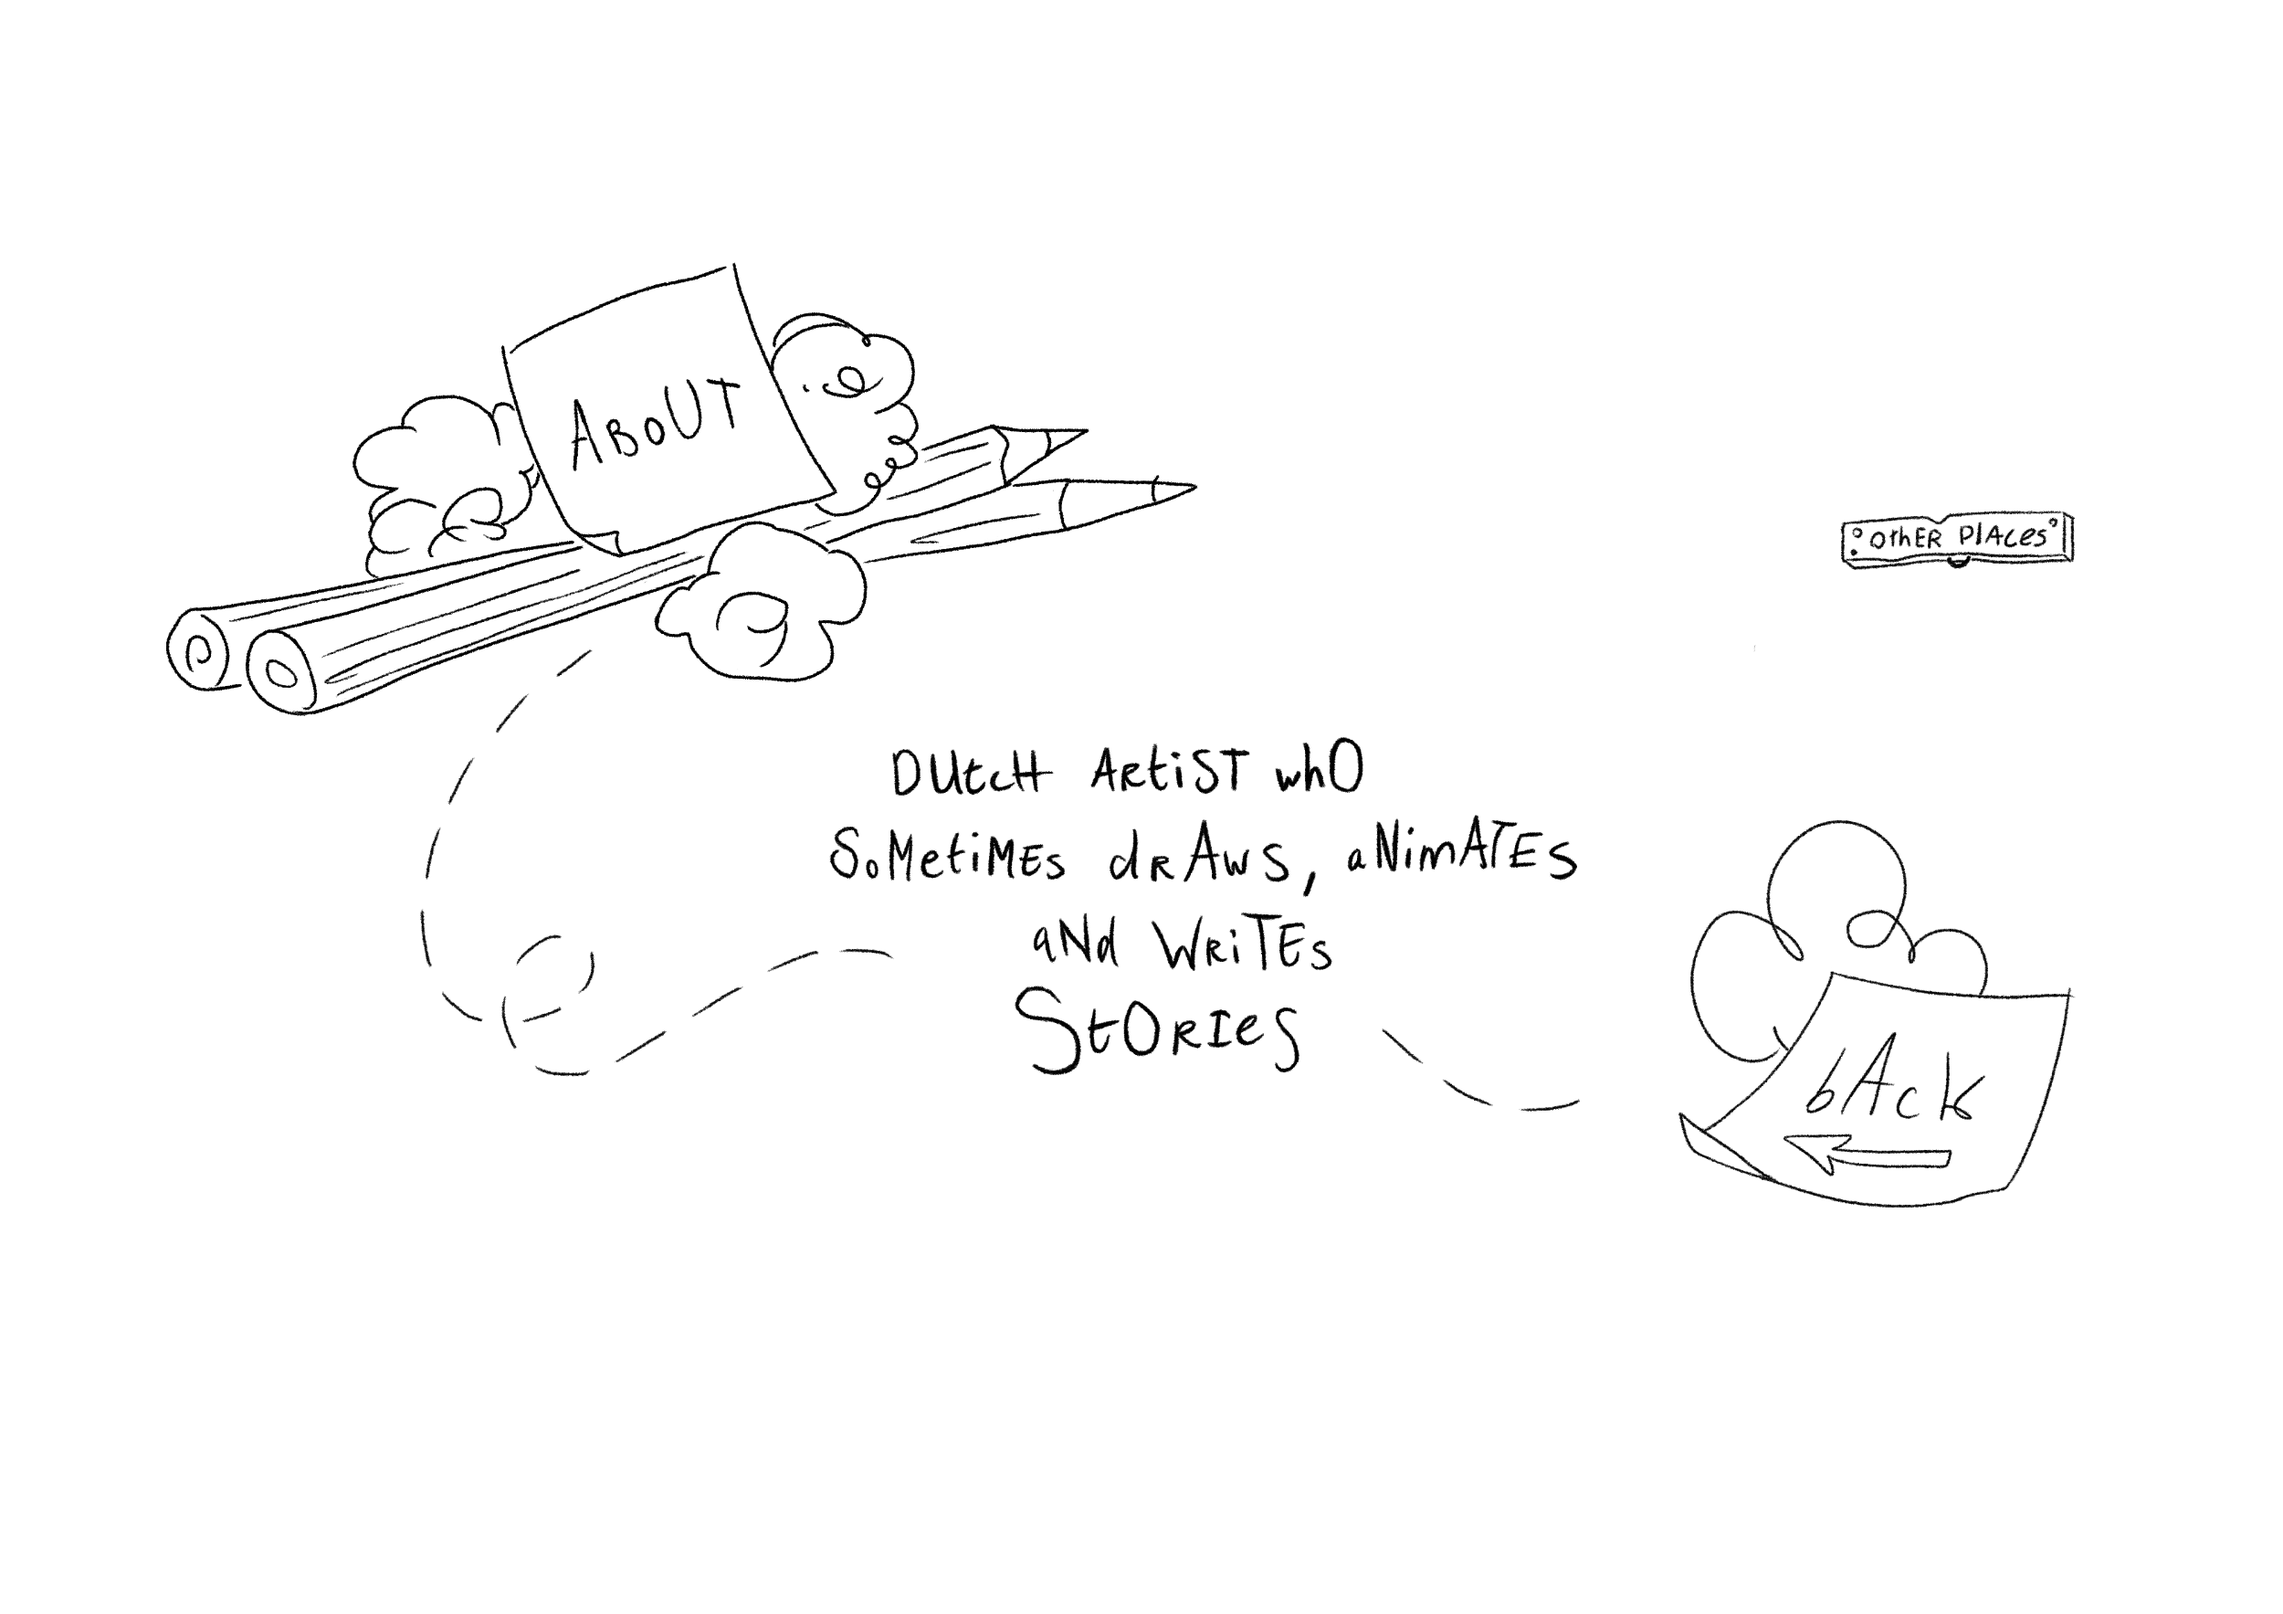
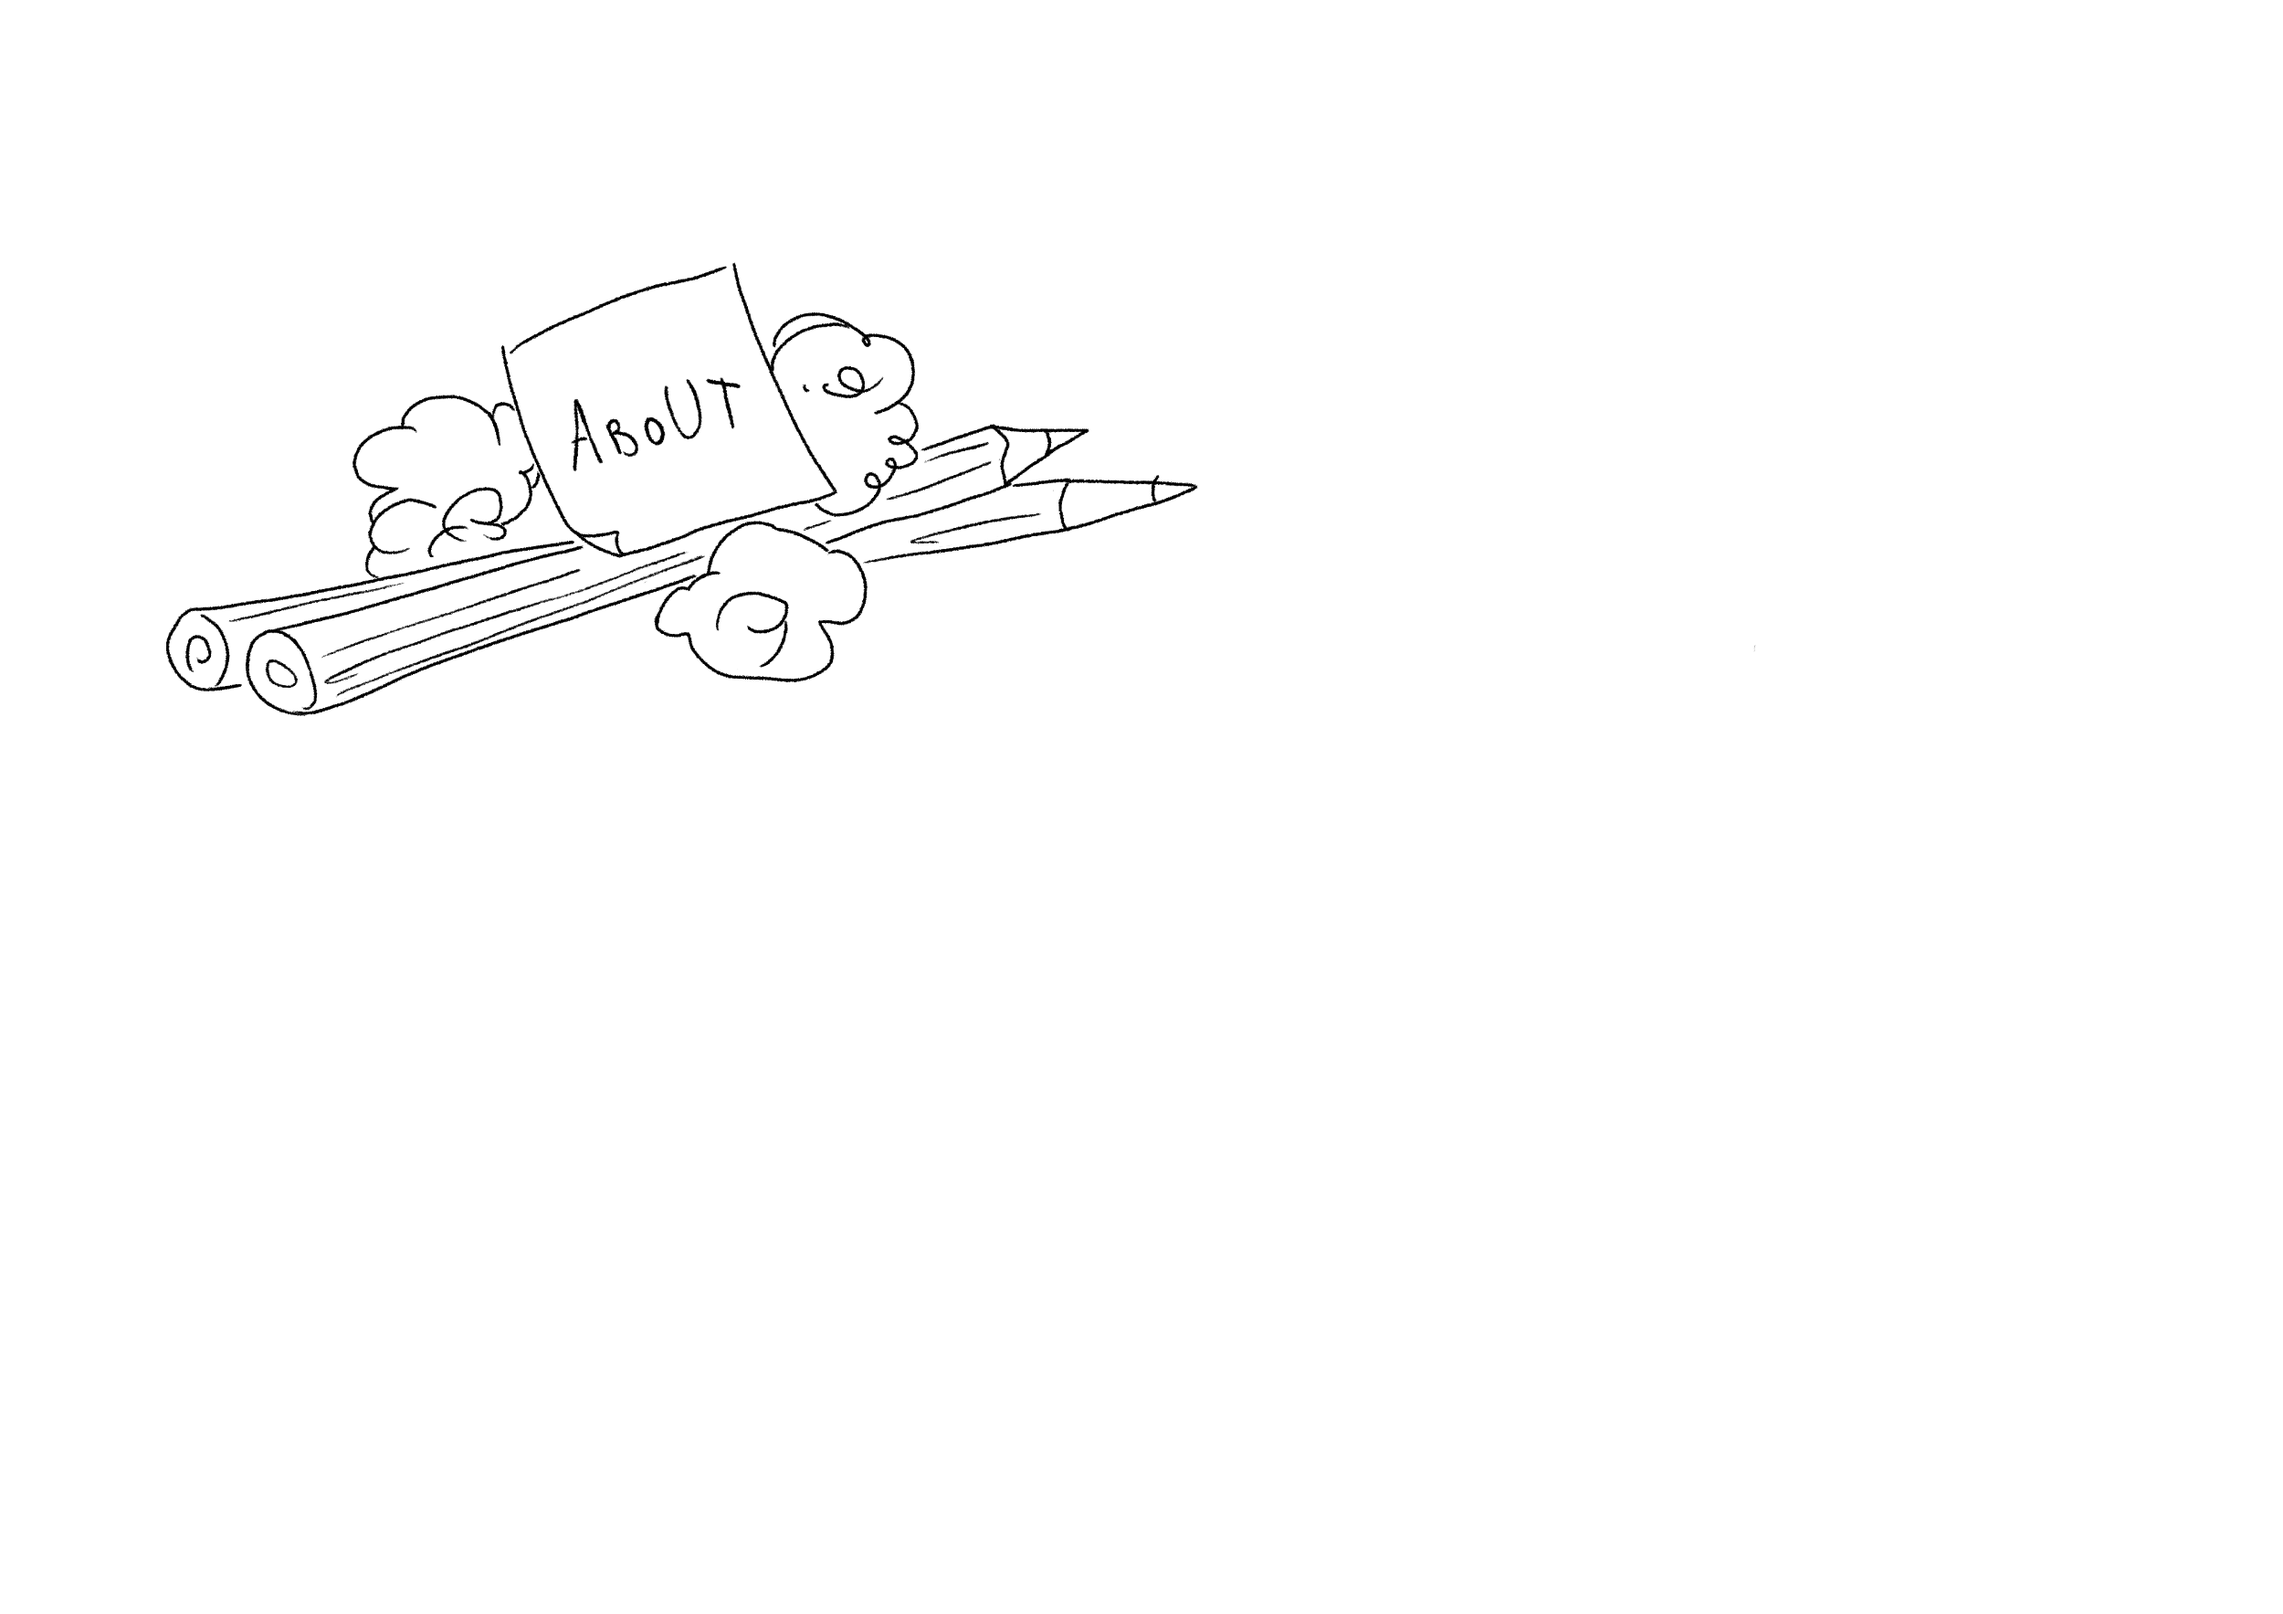
Navigation - position -fixed

diff --git a/index.html b/index.html
@@ -4,7 +4,6 @@
 
     <title>Artsgeek</title>
     <link rel="stylesheet" href="styles.css">
-    <link href="https://fonts.googleapis.com/css2?family=Poppins:ital,wght@1,300&display=swap" rel="stylesheet">
 
 </head>
 
@@ -29,6 +28,7 @@
 
         <p class="p-index">Lieske Keegtra is a Dutch animator and illustrator living in Ireland.</p>
 
+    
         <!-- Nav links -->
         <!-- Nav About-->
 
@@ -74,24 +74,34 @@
             <img src= "images/index/cross-button.PNG" alt= "cross" class="cross-box">
         </a>
 
-        <!-- Nav Instagram -->
+        <nav>
 
-        <a href="https://www.instagram.com/artsgeeky/" class="instagram-link" target="blank">
-            <img src= "images/general/instagram.PNG" alt="instagram" class="instagram">
-        </a>
-
-        <!-- Nav Email -->
-
-        <a href="mailto: artsgeeky@gmail.com" class="email-link" target="blank">
-            <img src= "images/general/email.PNG" alt="email" class="email">
-        </a>
-
-        <!-- Other Places Stripes -->
-
+            <!-- Nav links -->
+            <!-- Nav Back -->
     
-        <img src="images/general/line1.PNG" alt="line" class="line1">
+            <!-- Nav Header -->
+    
+            <img src= "images/general/otherplaces.PNG" alt="other places" class="otherplaces">
+    
+            <!-- Nav Instagram -->
+    
+            <a href="https://www.instagram.com/artsgeeky/" class="instagram-link" target="blank">
+                <img src= "images/general/instagram.PNG" alt="instagram" class="instagram">
+            </a>
+    
+            <!-- Nav Email -->
+    
+            <a href="mailto: artsgeeky@gmail.com" class="email-link" target="blank">
+                <img src= "images/general/email.PNG" alt="email" class="email">
+            </a>
+    
+            <!-- Other Places Stripes -->
         
-        <img src="images/general/line2.PNG" alt="line" class="line2">
+            <img src="images/general/line1.PNG" alt="line" class="line1">
+            
+            <img src="images/general/line2.PNG" alt="line" class="line2">
+    
+        </nav>
 
 
         <!-- Footer -->

diff --git a/cross.html b/cross.html
@@ -22,34 +22,30 @@
 
         <!-- Background -->
 
-        <img src= "images/general/background_image.PNG" alt= "love" class="foreground"> 
+        <img src= "images/general/background_image.PNG" alt= "love"> 
 
         <!-- Cross Drawing -->
 
         <img src= "https://cdnb.artstation.com/p/assets/images/images/044/127/321/large/lieske-keegstra-christmas.jpg?1639153742" alt= "love" class="cross-drawing">
         
+        <nav>
+
         <!-- Nav links -->
         <!-- Nav Back -->
 
-        <a href="index.html" class="back-cross-link">
-            <img src= "images/general/back_button.PNG" alt= "back" class="back-cross-box">
-        </a>
+        <!-- Nav Header -->
+
+        <img src= "images/general/otherplaces.PNG" alt="other places" class="otherplaces">
 
         <!-- Nav Instagram -->
 
-        <img src= "images/general/instagram.PNG" alt="instagram" class="instagram-link">
-
-
-        <a href="https://www.instagram.com/artsgeeky/" class="instagram-link-overlay" target="blank">
+        <a href="https://www.instagram.com/artsgeeky/" class="instagram-link" target="blank">
             <img src= "images/general/instagram.PNG" alt="instagram" class="instagram">
         </a>
 
         <!-- Nav Email -->
 
-        <img src= "images/general/email.PNG" alt="email" class="email-link">
-
-
-        <a href="mailto: artsgeeky@gmail.com" class="email-link-overlay" target="blank">
+        <a href="mailto: artsgeeky@gmail.com" class="email-link" target="blank">
             <img src= "images/general/email.PNG" alt="email" class="email">
         </a>
 
@@ -58,6 +54,12 @@
         <img src="images/general/line1.PNG" alt="line" class="line1">
         
         <img src="images/general/line2.PNG" alt="line" class="line2">
+
+        </nav>
+
+        <a href="index.html" class="back-cross-link">
+            <img src= "images/general/back_button.PNG" alt= "back" class="back-cross-box">
+        </a>
 
         <!-- Footer -->
 

diff --git a/about.html b/about.html
@@ -17,20 +17,29 @@
 
 
     </section>
-    
-    
+
     <section>
 
-        <!-- Background -->
+        
+            <!-- Background -->
+    
+            <img src= "images/about/background-about.PNG" alt= "about"> 
+    
+        
 
-        <img src= "images/about/background-about.PNG" alt= "about"> 
+    <nav>
 
         <!-- Nav links -->
         <!-- Nav Back -->
 
-        <a href="index.html" class="back-about-link">
+
+        <!--<a href="index.html" class="back-about-link">
             <img src= "images/about/back_button.PNG" alt= "back" class="back-about-box">
-        </a>
+        </a>-->
+
+        <!-- Nav Header -->
+
+        <img src= "images/general/otherplaces.PNG" alt="other places" class="otherplaces">
 
         <!-- Nav Instagram -->
 
@@ -66,22 +75,24 @@
 
         <img src="images/general/line4.PNG" alt="line" class="line4">
 
+    </nav>
 
-        <!-- Footer -->
-
-        <div class="footer-position">
-
-            <img src="images/general/artsgeek.PNG" alt="artsgeek" class="artsgeek-footer">
-  
-            <img src="images/general/illustrations.PNG" alt="illustrations" class="illustrations-footer">
-  
-            <img src="images/general/and.PNG" alt="and" class="and-footer">
-  
-            <img src="images/general/animation.PNG" alt="animation" class="animation-footer">
-   
-          </div>
-          
+     <!-- Footer -->
+    <footer>
+       
+           <img src="images/general/artsgeek.PNG" alt="artsgeek" class="artsgeek-footer">
+       
+           <img src="images/general/illustrations.PNG" alt="illustrations" class="illustrations-footer">
+       
+           <img src="images/general/and.PNG" alt="and" class="and-footer">
+       
+           <img src="images/general/animation.PNG" alt="animation" class="animation-footer">
+       
+       </footer>
+ 
+    
     </section>
+
 
 
 </body>

diff --git a/styles.css b/styles.css
@@ -3,7 +3,7 @@
 body {
 
     color: white;
-    overflow: hidden;
+   /*  overflow: hidden; */
 
 }
 
@@ -23,6 +23,22 @@ section {
     position: relative;
     
 }
+
+nav {
+    width: 80%;
+    margin-top: 0%;
+    margin-left: -1.2%;
+    display: flex;
+    flex-direction: column;
+    justify-content: center;
+    align-items: center;
+    text-align: center;
+    position: fixed;
+    float: right;
+    
+
+}
+
 
 img {
 
@@ -54,13 +70,34 @@ p {
 
 }
 
+.p-about {
+    position: absolute;
+    margin-top: -36%;
+    margin-left: -40%;
+    width: 40%;
+    text-align: left;
+    font-size: 1.3vw;
+
+}
+
+.about-text {
+    position: absolute;
+    z-index: 1;
+}
+
 
 
 /* Text Nav */
-
-
 /* Other Places */
-/* Instagram */
+/* Instagram Nav */
+
+.otherplaces {
+    position: absolute;
+    width: 11%;
+    margin-left: 71.5%;
+    margin-top: -24%;
+}
+
 
 .instagram-link {
 
@@ -100,7 +137,7 @@ p {
     cursor: pointer;
 }
 
-/* About */
+/* About Nav */
 
 .about-nav-link {
 
@@ -120,7 +157,7 @@ p {
     cursor: pointer;
 }
 
-/* Illustration */
+/* Illustration Nav */
 
 .illustration-nav-link {
 
@@ -140,7 +177,7 @@ p {
     cursor: pointer;
 }
 
-/* Animation */
+/* Animation Nav */
 
 .animation-nav-link {
 
@@ -401,6 +438,7 @@ p {
     width: 95%;
     margin-left: -10%;
     margin-top: -8%;
+    z-index: -10;
 
 }
 
@@ -479,7 +517,7 @@ p {
     width: 10%;
     margin-left: 66%;
     margin-top: 29%;
-    z-index: 30;
+    z-index: 50;
 }
 
 .back-cross-box {
@@ -822,6 +860,15 @@ p {
 
 /* footer */
 
+footer {
+
+    position: relative;
+    width: 30%;
+    margin-left: 20%;
+    margin-top: 0%;
+
+}
+
 .footer-position {
 
     position: absolute;
@@ -948,6 +995,11 @@ p {
         text-align: left;
         font-size: 2vw;
     
+    }
+
+    nav {
+        width: 100%;
+
     }
     
 }

diff --git a/illustrations.html b/illustrations.html
@@ -24,12 +24,17 @@
 
         <img src= "images/illustrations/background_illustrations.PNG" alt= "Illustrations">
 
+        <nav>
         <!-- Nav links -->
         <!-- Nav Back -->
         
         <a href="index.html" class="back-illustration-link">
             <img src= "images/illustrations/back_button.PNG" alt= "back" class="back-illustration-box">
         </a>
+
+        <!-- Nav Header -->
+
+        <img src= "images/general/otherplaces.PNG" alt="other places" class="otherplaces">
 
         <!-- Nav Instagram -->
 
@@ -64,6 +69,8 @@
         <img src="images/general/line3.PNG" alt="line" class="line3">
 
         <img src="images/general/line4.PNG" alt="line" class="line4">
+
+        </nav>
 
         <!-- Illustrations links -->
 

diff --git a/animation.html b/animation.html
@@ -24,12 +24,18 @@
 
         <img src= "images/animation/background_animations.PNG" alt= "Animation">
         
+        <nav>
+
         <!-- Nav links -->
         <!-- Nav Back -->
 
         <a href="index.html" class="back-animation-link">
             <img src= "images/animation/back_button.PNG" alt= "back" class="back-animation-box">
         </a>
+
+        <!-- Nav Header -->
+
+        <img src= "images/general/otherplaces.PNG" alt="other places" class="otherplaces">
 
         <!-- Nav Instagram -->
 
@@ -64,6 +70,8 @@
         <img src="images/general/line3.PNG" alt="line" class="line3">
 
         <img src="images/general/line4.PNG" alt="line" class="line4">
+
+        </nav>
 
         <!-- Animation links -->
       
